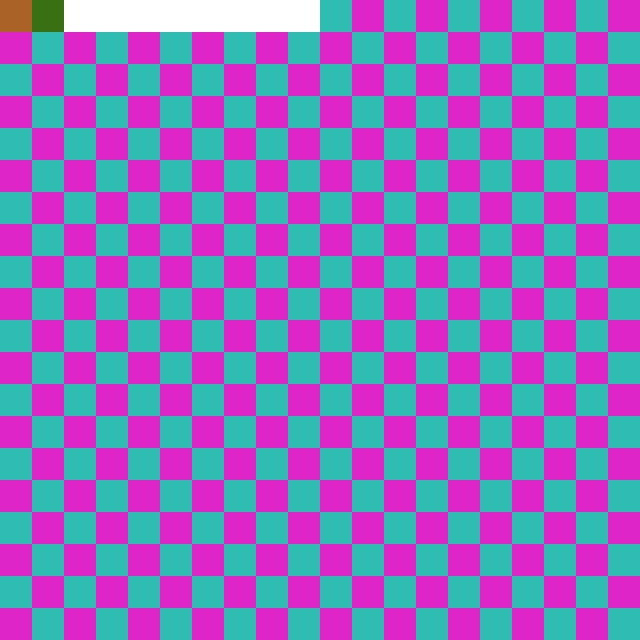
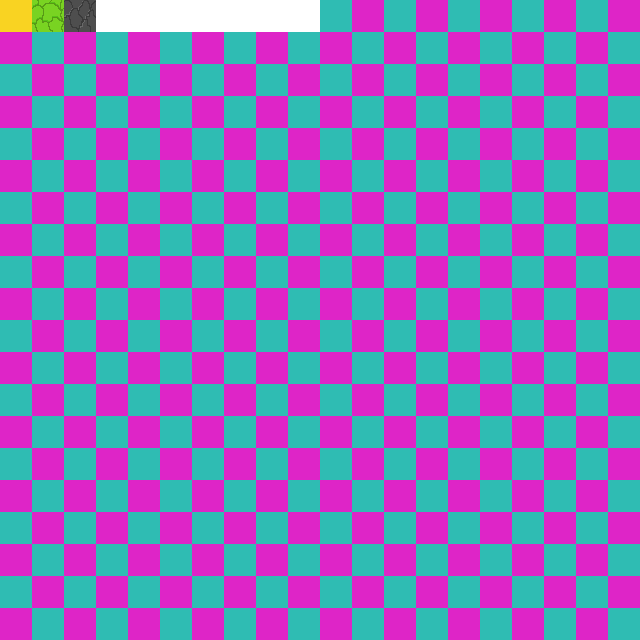
update

Changed region(s): [[0.0, 0.0, 0.1562, 0.0625]]

diff --git a/tiles.py b/tiles.py
@@ -53,6 +53,8 @@ class TileMap():
                     tiles.append(Tile('brown.png', x * self.tile_size, y * self.tile_size, self.spritesheet,groups, z=1))
                 elif tile == '2':
                     tiles.append(Tile('green.png', x * self.tile_size, y * self.tile_size, self.spritesheet,groups, z=1))
+                elif tile == '3':
+                    tiles.append(Tile('stone.png', x * self.tile_size, y * self.tile_size, self.spritesheet,groups, z=1))
                     # Move to next tile in current row
                 x += 1
 

diff --git a/level.py b/level.py
@@ -18,8 +18,8 @@ class Level:
         self.player = Player((S.SCREEN_WIDTH/2,S.SCREEN_HEIGHT/2),self.all_sprites)
         file = SpriteSheet("tiles.png")
         self.map = TileMap('tile_map.csv',file,groups=self.all_sprites)
-        self.enemies = Enemy((50,50),self.all_sprites)
-        self.enemies = Enemy((400,400),self.all_sprites)
+        self.enemies = Enemy((160,140),self.all_sprites)
+        self.enemies = Enemy((200,200),self.all_sprites)
    
 
     def run(self,dt):
